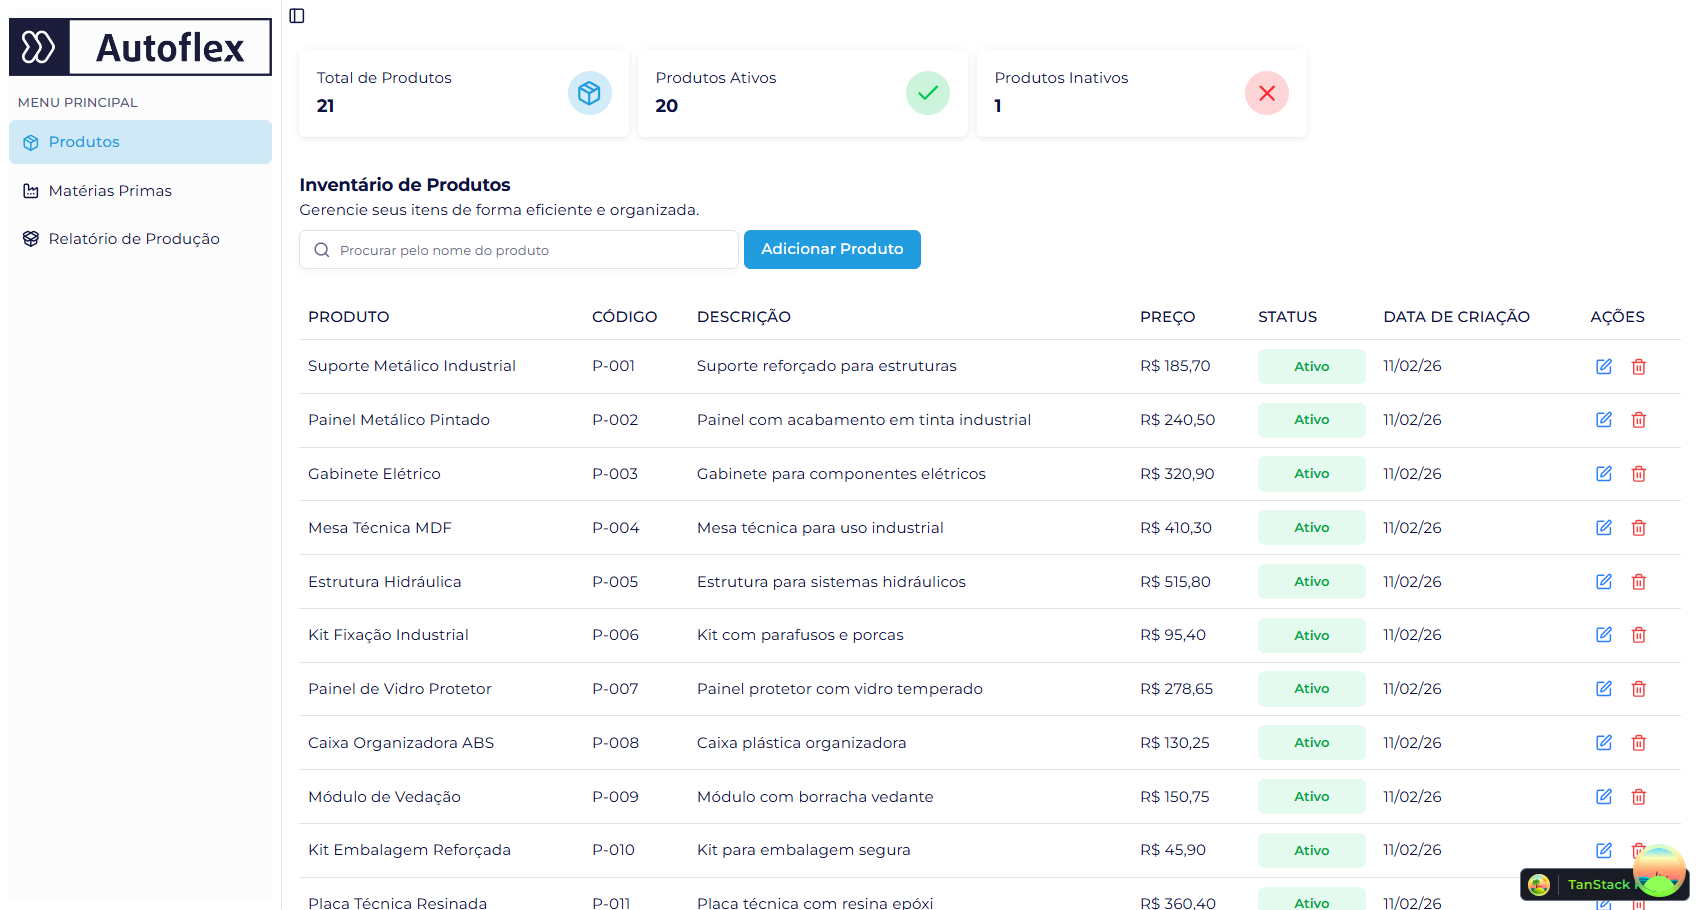
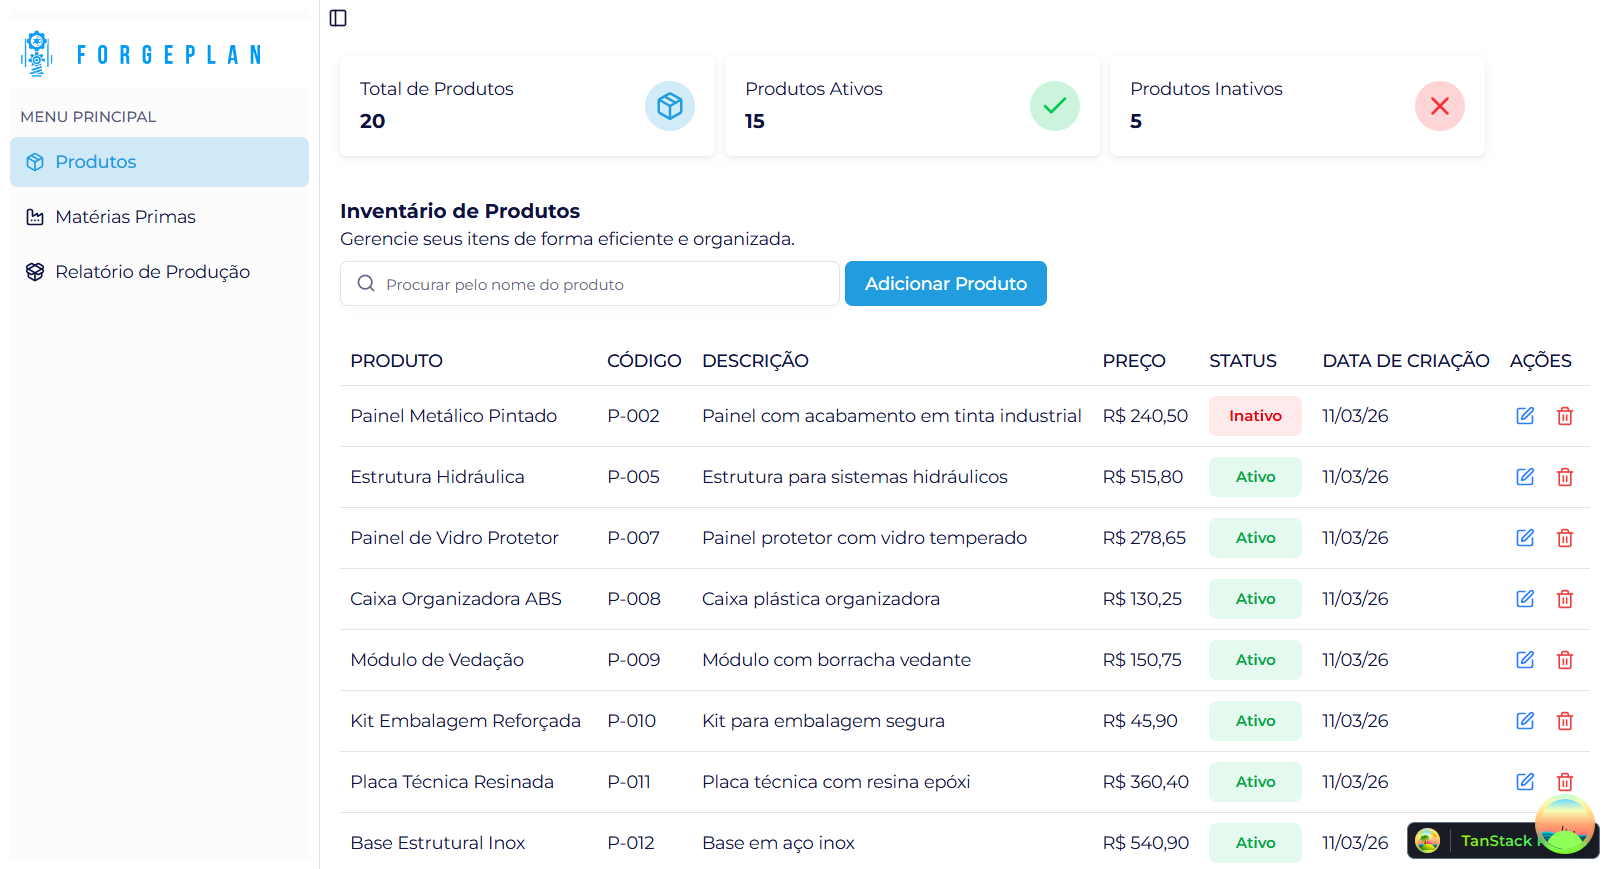
refactor: rename project branding from Autoflex to ForgePlan
- update application title
- replace favicons
- update sidebar logo
- update README

diff --git a/index.html b/index.html
@@ -13,28 +13,33 @@
       rel="stylesheet"
     />
 
+    <link rel="icon" type="image/x-icon" href="/favicon.ico" />
+
+    <link rel="icon" type="image/png" sizes="32x32" href="/favicon-32x32.png" />
     <link
       rel="icon"
-      href="https://www.projedata.com.br/wp-content/uploads/2023/03/cropped-favicon_apple_180x180-32x32.png"
-      sizes="32x32"
-    />
-    <link
-      rel="icon"
-      href="https://www.projedata.com.br/wp-content/uploads/2023/03/cropped-favicon_apple_180x180-192x192.png"
+      type="image/png"
       sizes="192x192"
+      href="/android-chrome-192x192.png"
     />
     <link
       rel="icon"
-      href="https://www.projedata.com.br/wp-content/uploads/2023/03/cropped-favicon_apple_180x180-180x180.png"
-      sizes="180x180"
+      type="image/png"
+      sizes="512x512"
+      href="/android-chrome-512x512.png"
     />
+
+    <link rel="apple-touch-icon" sizes="180x180" href="/apple-touch-icon.png" />
+
+    <link rel="icon" href="favicon-16x16.png" sizes="16x16" />
+    <link rel="icon" href="favicon-32x32.png" sizes="32x32" />
 
     <meta
       name="description"
-      content="Autoflex oferece soluções modernas de controle de estoque e gestão de produtos, otimizando a produção e utilização de matérias-primas para indústrias do setor plástico, garantindo eficiência e redução de desperdícios."
+      content="ForgePlan oferece soluções modernas de controle de estoque e gestão de produtos, otimizando a produção e utilização de matérias-primas para indústrias do setor plástico, garantindo eficiência e redução de desperdícios."
     />
 
-    <title>Autoflex – Gestão de Produtos e Estoque para Indústrias</title>
+    <title>ForgePlan – Gestão de Produtos e Estoque para Indústrias</title>
   </head>
   <body>
     <div id="root"></div>

diff --git a/README.md b/README.md
@@ -1,8 +1,8 @@
-# 🏭 Autoflex – Plataforma de Controle de Produção Industrial
+# 🏭 ForgePlan – Plataforma de Controle de Produção Industrial
 
-![Autoflex - Tela de Produtos](https://raw.githubusercontent.com/oliveiradniel/autoflex.assessment-web/refs/heads/main/src/assets/screenshots/products.png)
+![ForgePlan - Tela de Produtos](https://raw.githubusercontent.com/oliveiradniel/forgeplan-web/refs/heads/main/src/assets/screenshots/products.png)
 
-> O Autoflex Web é a interface de gerenciamento industrial do sistema Autoflex, desenvolvida com o objetivo de proporcionar uma experiência fluida e intuitiva para o controle de estoque e planejamento de produção.
+> O ForgePlan Web é a interface de gerenciamento industrial do sistema ForgePlan, desenvolvida com o objetivo de proporcionar uma experiência fluida e intuitiva para o controle de estoque e planejamento de produção.
 
 O projeto foca fortemente na comunicação eficiente com APIs REST, gerenciamento de estados para formulários complexos e na visualização clara de dados estratégicos, como o cálculo de viabilidade produtiva processado pelo back-end.
 
@@ -24,9 +24,9 @@ O que essa interface entrega:
 1. Clone o repositório e acesse o diretório do projeto:
 
 ```bash
-git clone https://github.com/oliveiradniel/autoflex.assessment-web.git
+git clone https://github.com/oliveiradniel/forgeplan-web.git
 
-cd autoflex.assessment-web
+cd forgeplan-web
 ```
 
 2. Instale as dependências:
@@ -100,25 +100,25 @@ O projeto utiliza um arquivo `.env` com as seguintes variáveis:
 
 Controle centralizado do seu catálogo. Visualize o inventário total e utilize a busca em tempo real para localizar itens rapidamente. Interface completa para criação, edição e remoção de registros.
 
-![Autoflex - Tela de Produtos](https://raw.githubusercontent.com/oliveiradniel/autoflex.assessment-web/refs/heads/main/src/assets/screenshots/products.png)
+![ForgePlan - Tela de Produtos](https://raw.githubusercontent.com/oliveiradniel/forgeplan-web/refs/heads/main/src/assets/screenshots/products.png)
 
 ### Controle de Matérias-primas
 
 Gestão detalhada de insumos com foco em integridade. O sistema monitora o estoque disponível e possui validações que impedem a exclusão de materiais que já compõem a ficha técnica de produtos existentes.
 
-![Autoflex - Tela de Matérias-primas](https://raw.githubusercontent.com/oliveiradniel/autoflex.assessment-web/refs/heads/main/src/assets/screenshots/raw-materials.png)
+![ForgePlan - Tela de Matérias-primas](https://raw.githubusercontent.com/oliveiradniel/forgeplan-web/refs/heads/main/src/assets/screenshots/raw-materials.png)
 
 ### Relatório de produção (RF004)
 
 Exibe o cálculo inteligente de produção baseado no estoque atual. A tela prioriza itens de maior valor unitário e identifica o potencial máximo de fabricação, servindo como ferramenta estratégica para o planejamento industrial.
 
-![Autoflex - Tela de relatório de produção](https://raw.githubusercontent.com/oliveiradniel/autoflex.assessment-web/refs/heads/main/src/assets/screenshots/report.png)
+![ForgePlan - Tela de relatório de produção](https://raw.githubusercontent.com/oliveiradniel/forgeplan-web/refs/heads/main/src/assets/screenshots/report.png)
 
 ---
 
 ## 🛜 Conexão com a API
 
-Para conseguir utilizar a aplicação vá até o [repositório da API](https://github.com/oliveiradniel/autoflex.assessment-server) e siga os passos corretamente para colocá-la no ar e fazer uso da aplicação web.
+Para conseguir utilizar a aplicação vá até o [repositório da API](https://github.com/oliveiradniel/forgeplan-server) e siga os passos corretamente para colocá-la no ar e fazer uso da aplicação web.
 
 ## 🧑🏻💻 Veja mais projetos meus
 
